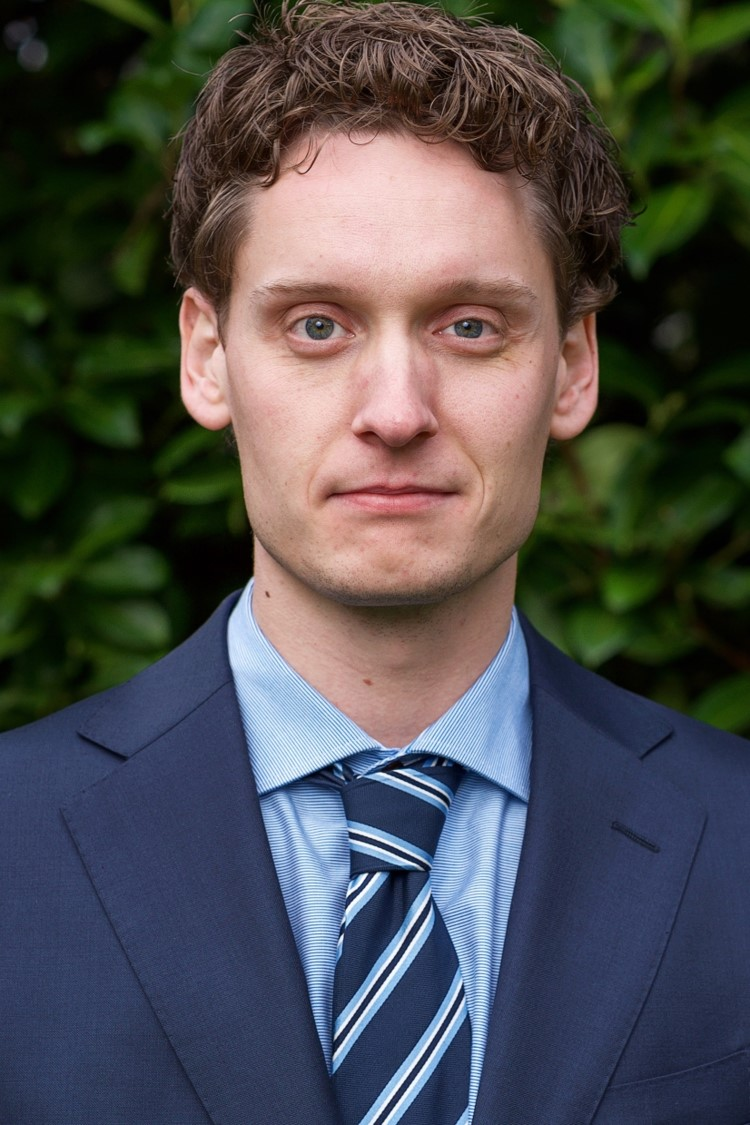
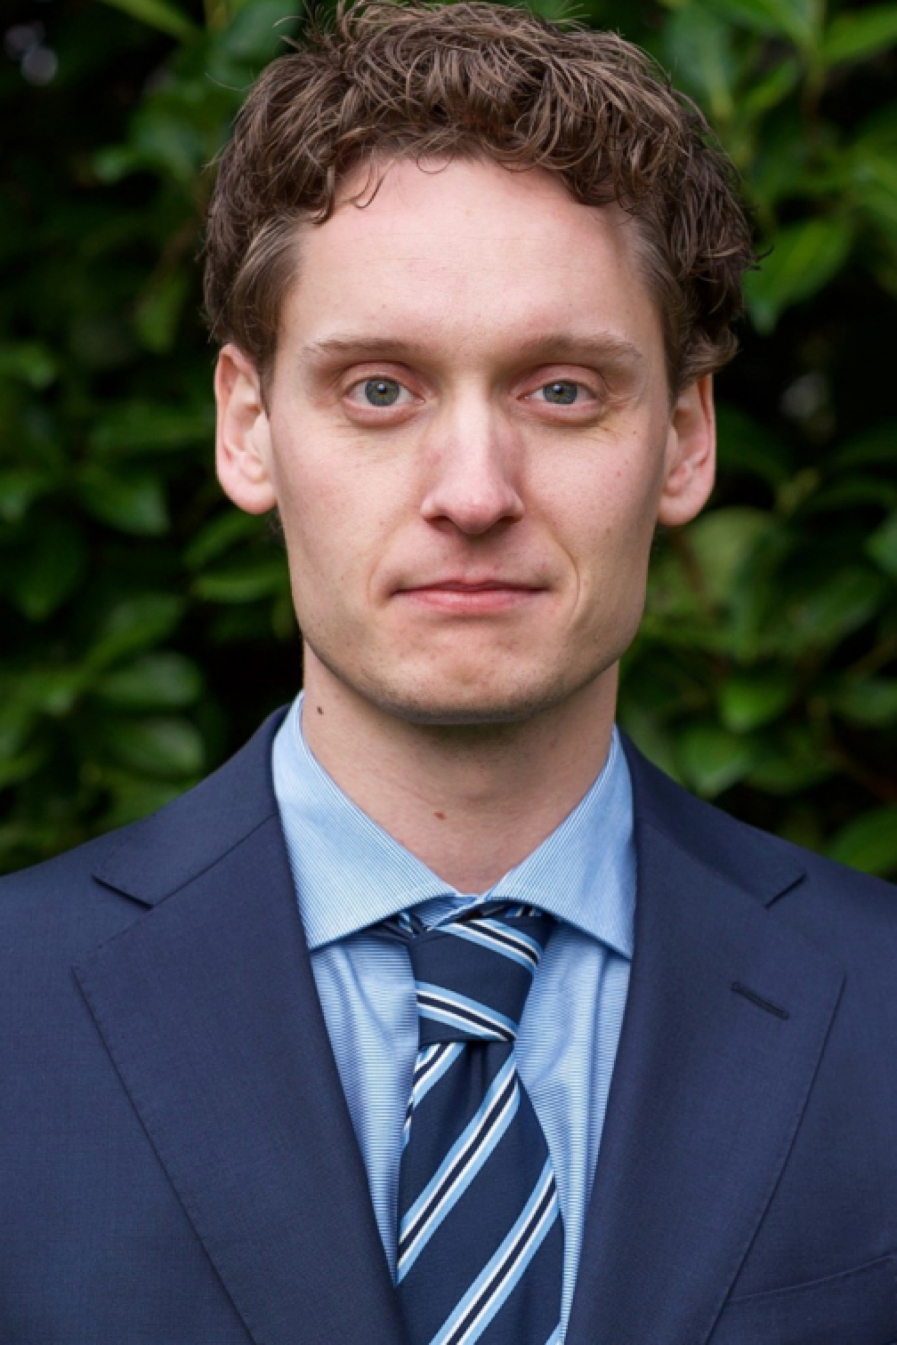
BugFixes: o.a. foto upload maximum en resizing

diff --git a/web/js/init.js b/web/js/init.js
@@ -87,6 +87,15 @@ $( document ).ready(function() {
                 });
             }
         });
+        $('div .btn').each(function() {
+            if ($(this).hasClass('disabled')) {
+                $(this).removeClass('disabled');
+            }
+            else {
+                $(this).addClass('disabled');
+            }
+
+        })
 
         $('#clicker').each(function() {
             if ($(this).attr('disabled')) {

diff --git a/src/AppBundle/Controller/PersonaliaController.php b/src/AppBundle/Controller/PersonaliaController.php
@@ -35,6 +35,16 @@ class PersonaliaController extends Controller
 
             $personalia = $form->getData();
 
+            if(filesize($form['profileImageFile']->getData()) > 18000000)
+            {
+                $this->addFlash(
+                    'error',
+                    'De foto is te groot. Kies een foto van maximaal 15MB.'
+                );
+
+                return $this->redirectToRoute('personalia', array('userId' => $userId));
+            }
+
             // Remove old avatar file
             $fs = new Filesystem();
             try {
@@ -83,6 +93,8 @@ class PersonaliaController extends Controller
             die ( 'Please upload a pdf or an image ' );
         }
         finfo_close( $fileInfo );
+
+        $this->resizeImage($picture_url, $detected_type);
 
         if($detected_type == 'image/jpeg')
         {
@@ -136,4 +148,38 @@ class PersonaliaController extends Controller
 
     }
 
+    public function resizeImage($filename, $filetype)
+    {
+        $filesize = filesize($filename) / 1000000;
+        
+        while($filesize > 3.) {
+            $percent = 0.5;
+
+            // Get new dimensions
+            list($width, $height) = getimagesize($filename);
+            $new_width = round($width * $percent);
+            $new_height = round($height * $percent);
+
+            // Resample
+            $image_p = imagecreatetruecolor($new_width, $new_height);
+
+            // Content type
+            if ($filetype == 'image/jpeg') {
+                $image = imagecreatefromjpeg($filename);
+                imagecopyresampled($image_p, $image, 0, 0, 0, 0, $new_width, $new_height, $width, $height);
+                imagejpeg($image_p, $filename, 100);
+                imagedestroy($image);
+
+            } elseif ($filetype == 'image/png') {
+                $image = imagecreatefrompng($filename);
+                imagecopyresampled($image_p, $image, 0, 0, 0, 0, $new_width, $new_height, $width, $height);
+                imagepng($image_p, $filename, 100);
+                imagedestroy($image);
+            }
+            imagedestroy($image_p);
+            clearstatcache();
+            $filesize = filesize($filename) / 1000000;
+        }
+
+    }
 }

diff --git a/src/AppBundle/Entity/Personalia.php b/src/AppBundle/Entity/Personalia.php
@@ -36,7 +36,7 @@ class Personalia
      *     groups={"Registration", "Personalia"}
      * )
      */
-    protected $firstName;
+    protected $firstName = 'Bas';
 
     /**
      * @ORM\Column(type="string", length=255, options={"default":"van Toor"})
@@ -48,14 +48,14 @@ class Personalia
      *     groups={"Registration", "Personalia"}
      * )
      */
-    protected $lastName;
+    protected $lastName = 'van Toorn';
 
     /**
      * @ORM\Column(type="date", options={"default":"1935-09-17"})
      *
      * @Assert\NotBlank(message="Vul je geboortedatum in.", groups={"Registration", "Personalia"})
      */
-    protected $dateOfBirth;
+    protected $dateOfBirth = '1935-09-17';
 
     /**
      * @ORM\Column(type="string", length=255, options={"default":"Vlaardingen"})
@@ -67,7 +67,7 @@ class Personalia
      *     groups={"Registration", "Personalia"}
      * )
      */
-    protected $placeOfResidence;
+    protected $placeOfResidence = 'Vlaardingen';
 
     /**
      * @ORM\Column(type="string", length=255, options={"default":"bassie.jpg"})
@@ -75,7 +75,7 @@ class Personalia
      * @Assert\NotBlank(message="Voeg een profielfoto toe.", groups={"Registration", "Personalia"})
      * @Assert\File(mimeTypes={ "image/png", "image/jpeg" })
      */
-    protected $profileImageName;
+    protected $profileImageName = 'bassie.jpg';
 
     /**
      * @ORM\Column(type="string", length=255, options={"default":"bassie_circle.jpg"})
@@ -83,7 +83,7 @@ class Personalia
      * @Assert\NotBlank(message="Voeg een profielfoto toe.", groups={"Registration", "Personalia"})
      * @Assert\File(mimeTypes={ "image/png", "image/jpeg" })
      */
-    protected $profileAvatarName;
+    protected $profileAvatarName = 'bassie_circle.jpg';
 
     /**
      *
@@ -91,7 +91,7 @@ class Personalia
      *
      * @var File
      */
-    private $profileImageFile;
+    private $profileImageFile = null;
 
     /**
      * @ORM\Column(type="datetime")

diff --git a/src/AppBundle/Form/PersonaliaType.php b/src/AppBundle/Form/PersonaliaType.php
@@ -21,7 +21,7 @@ class PersonaliaType extends AbstractType
                 ->add('firstName', TextType::class)
                 ->add('lastName', TextType::class)
                 ->add('placeOfResidence', TextType::class)
-                ->add('dateOfBirth', DateType::class, array('widget' => 'single_text', 'format' => 'dd-MM-yyyy'))
+                ->add('dateOfBirth', DateType::class, array('widget' => 'single_text'))
                 ->add('profileImageFile', FileType::class, array(
                     'block_name' => 'file_widget',
                     'label' => 'Foto',

diff --git a/src/AppBundle/Entity/Education.php b/src/AppBundle/Entity/Education.php
@@ -54,11 +54,11 @@ class Education
     protected $startDate;
 
     /**
-     * @ORM\Column(type="date")
+     * @ORM\Column(type="date", nullable=true)
      *
      * @Assert\NotBlank(message="Vul de einddatum in.", groups={"Education"})
      */
-    protected $endDate;
+    protected $endDate = null;
 
     /**
      * @ORM\Column(type="datetime")

diff --git a/src/AppBundle/Entity/Tag.php b/src/AppBundle/Entity/Tag.php
@@ -20,7 +20,7 @@ class Tag
     protected $id;
 
     /**
-     * @ORM\Column(type="string", length=10, unique=true)
+     * @ORM\Column(type="string", length=30, unique=true)
      *
      * @Assert\NotBlank(message="Vul een tag in.", groups={"Tag"})
      *

diff --git a/src/AppBundle/Entity/Skill.php b/src/AppBundle/Entity/Skill.php
@@ -25,7 +25,7 @@ class Skill
     protected $id;
 
     /**
-     * @ORM\Column(type="string", length=20, unique=true)
+     * @ORM\Column(type="string", length=30)
      *
      * @Assert\NotBlank(message="Vul een competentie in.", groups={"Skill"})
      *

diff --git a/src/AppBundle/Entity/Extracurricular.php b/src/AppBundle/Entity/Extracurricular.php
@@ -43,7 +43,7 @@ class Extracurricular
      * @ORM\Column(type="date", nullable=true)
      *
      */
-    protected $endDate;
+    protected $endDate = null;
 
     /**
      * @ORM\Column(type="datetime")
